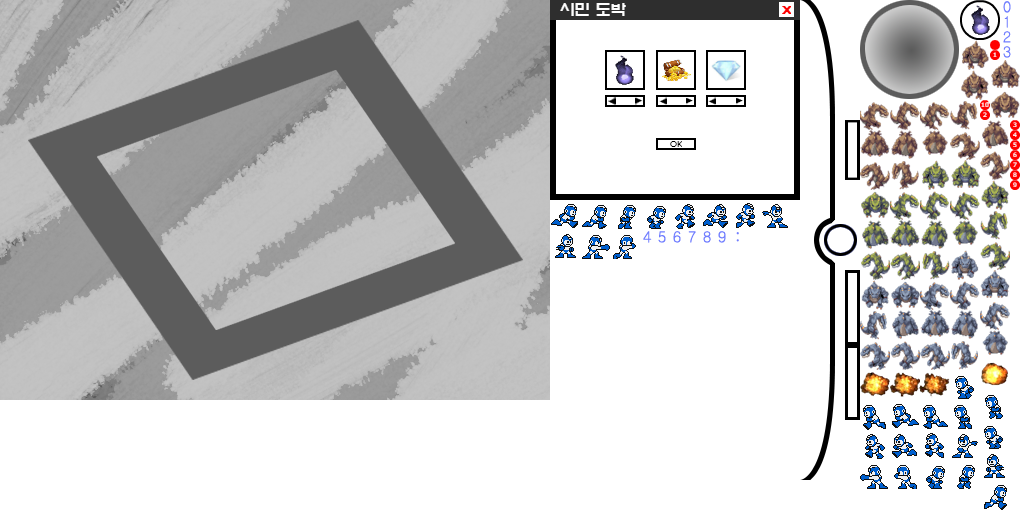
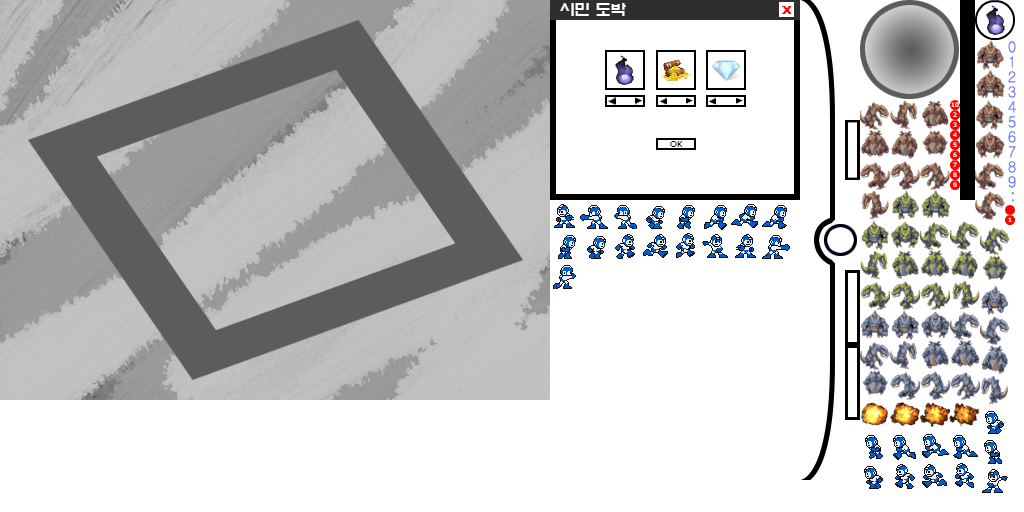
2016-09-24
Label

Changed region(s): [[0.8438, 0.0, 1.0, 1.0], [0.5312, 0.4062, 0.7812, 0.5625]]

diff --git a/Order.h b/Order.h
@@ -8,12 +8,14 @@
 #define ZORDER_INFORBOARD 2
 #define ZORDER_INTERfACE 3
 #define ZORDER_MENU 4
+#define ZORDER_LABEL 5
 
 #define TAG_BACKGROUND 1000
 #define TAG_UNIT 1001
 #define TAG_INFORBOARD 1002
 #define TAG_INTERFACE 1003
 #define TAG_INTERFACE_SOUL 1004
+#define TAG_LABEL 1005
 
 #define ZORDER_RANGE 1
 #define ZORDER_MONSTER 2
